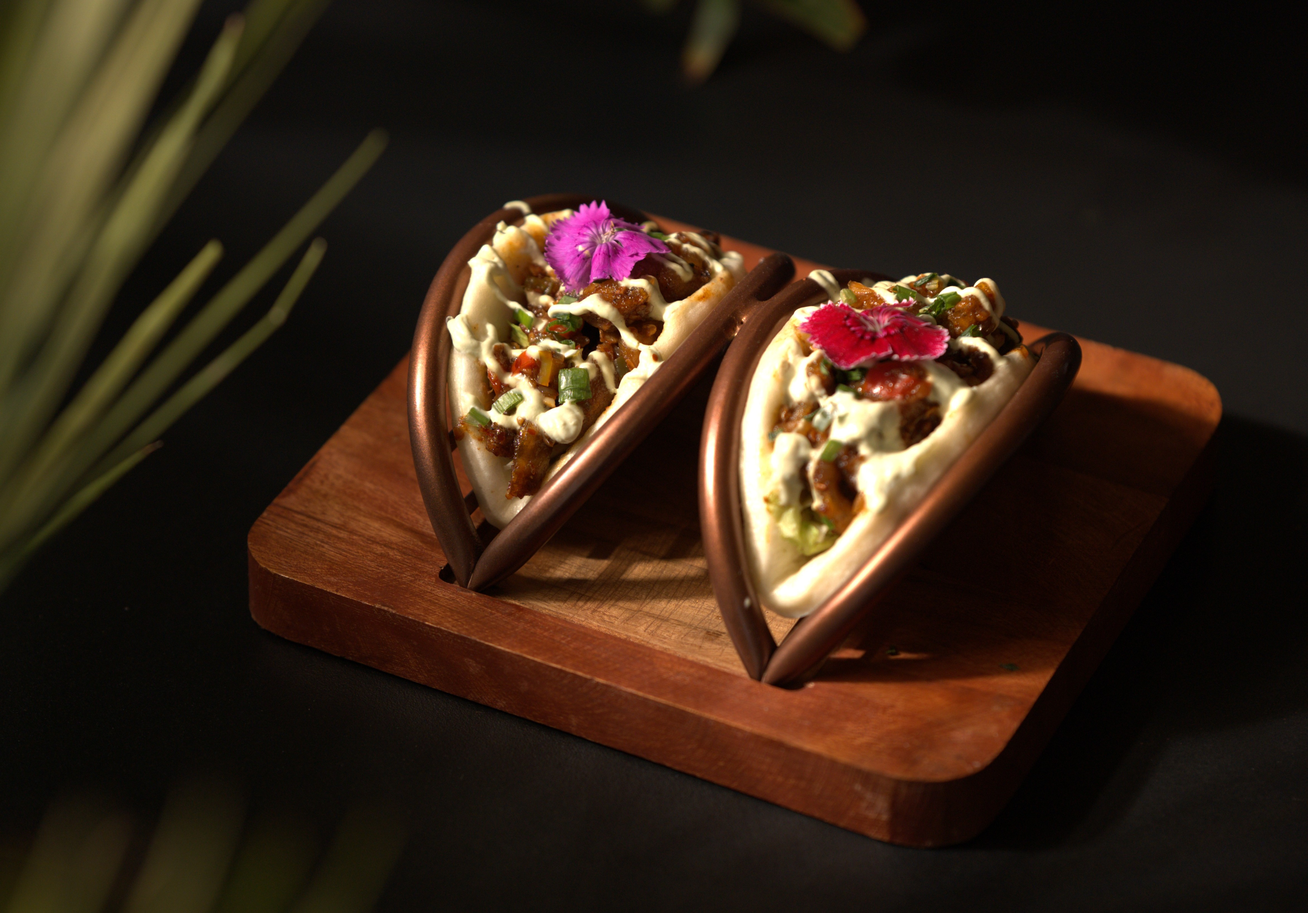
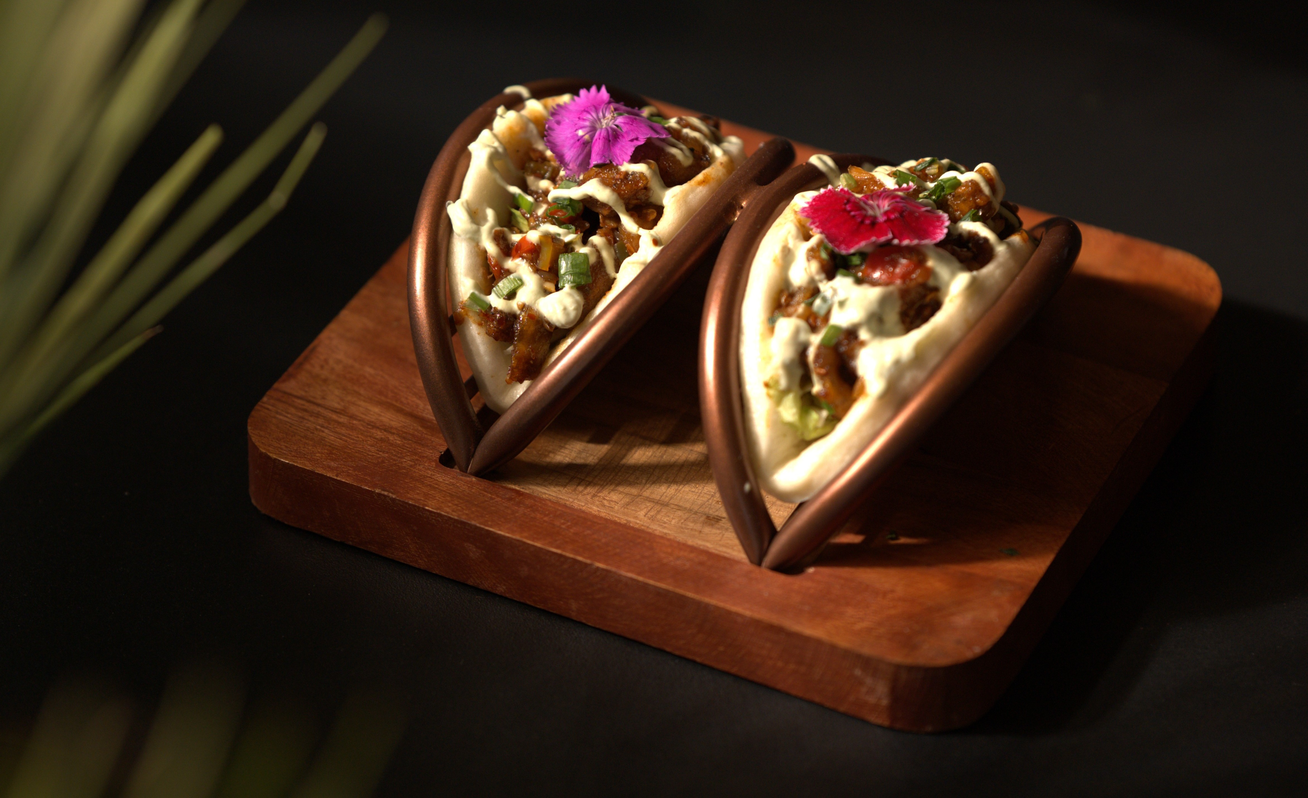
image size fix

diff --git a/src/components/cousal.jsx b/src/components/cousal.jsx
@@ -5,13 +5,13 @@
       <div id="carouselExampleInterval" className="carousel slide" data-bs-ride="carousel">
         <div className="carousel-inner">
           <div className="carousel-item active" data-bs-interval="3000">
-            <img src="img/DSC06119.jpg" className="d-block w-100" alt="Slide 3" />
+            <img src="img/DSC06119.jpg" className="d-block w-100 h-60 img-responsive" alt="Slide 3" />
           </div>
           <div className="carousel-item" data-bs-interval="3000">
-            <img src="img/adarshwaah-13-08-2025-0017.jpg" className="d-block w-100 " alt="Slide 2" />
+            <img src="img/adarshwaah-13-08-2025-0017.jpg" className="d-block w-100  img-responsive" alt="Slide 2" />
           </div>
           <div className="carousel-item" data-bs-interval="4000">
-            <img src="img/front1.webp" className="d-block w-100 h-60" alt="Slide 1" />
+            <img src="img/front1.webp" className="d-block w-100 h-60 img-responsive" alt="Slide 1" />
           </div>
         </div>
         <button className="carousel-control-prev" type="button" data-bs-target="#carouselExampleInterval" data-bs-slide="prev">
